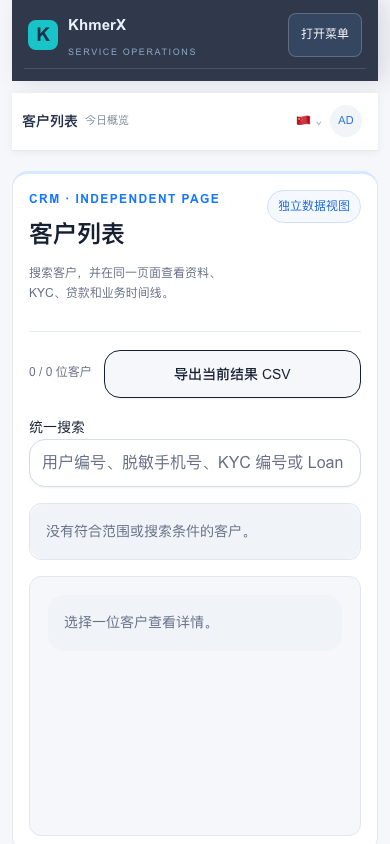
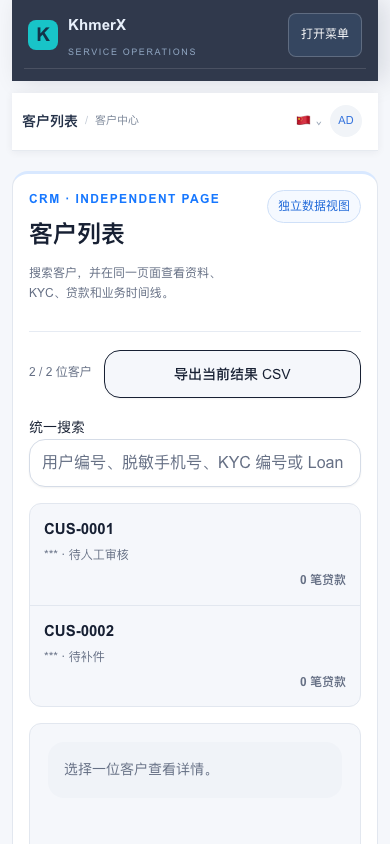
fix(team): remove overview breadcrumb prefix

diff --git a/app/globals.css b/app/globals.css
@@ -211,7 +211,7 @@ fieldset.language-config{margin:16px 0;padding:14px 16px;border:1px solid var(--
 .crm-breadcrumb{max-width:100%}.crm-breadcrumb strong{min-width:0;max-width:clamp(150px,42vw,420px);overflow:hidden;text-overflow:ellipsis;white-space:nowrap}.crm-top-actions{flex:0 0 auto}
 .crm-topbar{position:sticky;top:0;z-index:40;height:58px;min-height:58px;box-sizing:border-box;padding:0 18px;border-bottom:1px solid #e6eaf0;background:#fff;gap:20px;box-shadow:0 1px 8px #17203310}.crm-breadcrumb{display:flex;align-items:center;gap:12px;min-width:0;color:#7c8799;font-size:11px}.crm-breadcrumb strong{color:#243148;font-size:16px;font-weight:700}.crm-breadcrumb i{font-style:normal;color:#c0c8d4}.crm-top-actions{display:flex;align-items:center;gap:8px;margin-left:auto}.crm-top-icon,.crm-top-more{display:grid;place-items:center;width:30px;height:30px;padding:0;border:0;background:transparent;color:#8190a6;font-size:15px;border-radius:7px;cursor:pointer}.crm-top-icon:hover,.crm-top-more:hover{background:#f0f4f9;color:#2f70db}.crm-env-tag{display:inline-flex;align-items:center;min-height:30px;padding:0 11px;border-radius:6px;background:#fff4d9;color:#b17a11;font-size:11px;font-weight:600;white-space:nowrap}.crm-avatar{display:grid;place-items:center;width:32px;height:32px;border:0;border-radius:50%;background:#f1f4f8;color:#3674dd;font-size:11px;cursor:pointer}.crm-language-menu,.crm-account-menu{position:relative}.crm-language-menu summary,.crm-account-menu summary{list-style:none;cursor:pointer}.crm-language-menu summary::-webkit-details-marker,.crm-account-menu summary::-webkit-details-marker{display:none}.crm-language-menu>summary{display:flex;align-items:center;gap:5px;min-height:32px;padding:0 7px;border-radius:7px;color:#65748b;font-size:12px}.crm-language-menu>summary:hover,.crm-account-menu>summary:hover{background:#f0f4f9}.crm-language-menu>summary b,.crm-account-caret{color:#9aa7b8;font-size:11px;font-weight:500}.crm-language-popover,.crm-account-popover{position:absolute;z-index:80;right:0;top:calc(100% + 8px);display:flex;min-width:150px;flex-direction:column;gap:4px;padding:8px;border:1px solid #e0e7f0;border-radius:10px;background:#fff;box-shadow:0 12px 30px #17203324}.crm-language-popover button,.crm-account-popover button{display:flex;align-items:center;gap:8px;min-height:34px;padding:0 9px;border:0;border-radius:7px;background:transparent;color:#243148;text-align:left;font:inherit;font-size:12px;cursor:pointer}.crm-language-popover button:hover,.crm-language-popover button[aria-pressed=true],.crm-account-popover button:hover{background:#eef4ff;color:#2563c7}.crm-account-trigger{display:flex;align-items:center;gap:4px;padding:2px;border-radius:20px}.crm-account-popover{min-width:210px;gap:6px;padding:12px}.crm-account-popover strong,.crm-account-popover span{display:block;padding:0 5px;overflow:hidden;text-overflow:ellipsis;white-space:nowrap}.crm-account-popover strong{font-size:13px;color:#243148}.crm-account-popover span{font-size:11px;color:#7c8799}.crm-account-popover button{margin-top:4px;width:100%;justify-content:flex-start}.crm-account-popover button.danger{color:#c2413b}.company-language-config{max-width:620px}
 @media(min-width:981px){.team-shell:has(.crm-sidebar){padding-left:216px;padding-right:0;max-width:none}.team-shell:has(.crm-sidebar) .crm-topbar{margin-left:0;margin-right:0;padding-left:22px}.team-shell:has(.crm-sidebar)>.kyc-heading,.team-shell:has(.crm-sidebar)>.notice,.team-shell:has(.crm-sidebar)>[role=alert],.team-shell:has(.crm-sidebar)>[role=status],.team-shell:has(.crm-sidebar)>.crm-overview,.team-shell:has(.crm-sidebar)>.panel,.team-shell:has(.crm-sidebar)>details{margin-left:22px;margin-right:22px}}
-@media(max-width:620px){.crm-topbar{padding:0 10px;gap:8px}.crm-breadcrumb{gap:7px}.crm-breadcrumb strong{font-size:14px}.crm-breadcrumb span,.crm-breadcrumb i{display:none}.crm-top-actions{gap:2px}.crm-top-icon:nth-child(2),.crm-top-icon:nth-child(3){display:none}.crm-env-tag{padding:0 7px;font-size:10px}.crm-top-more{display:none}.crm-language-menu>summary>span:nth-child(2),.crm-account-caret{display:none}.crm-language-menu>summary{padding:0 4px}.crm-account-popover{right:-4px}}
+@media(max-width:620px){.crm-topbar{padding:0 10px;gap:8px}.crm-breadcrumb{gap:7px}.crm-breadcrumb strong{font-size:14px}.crm-top-actions{gap:2px}.crm-top-icon:nth-child(2),.crm-top-icon:nth-child(3){display:none}.crm-env-tag{padding:0 7px;font-size:10px}.crm-top-more{display:none}.crm-language-menu>summary>span:nth-child(2),.crm-account-caret{display:none}.crm-language-menu>summary{padding:0 4px}.crm-account-popover{right:-4px}}
 .portal-switch{display:grid;grid-template-columns:1fr 1fr;gap:6px;padding:4px;margin:20px 0;background:var(--muted);border-radius:10px}.portal-switch button{min-height:42px;border:0;border-radius:8px;background:transparent;color:var(--muted-foreground);font:inherit;cursor:pointer}.portal-switch button.active{background:var(--card);color:var(--primary);box-shadow:0 1px 4px #17203312;font-weight:600}.portal-switch button:disabled{cursor:not-allowed;opacity:.65}.sso-login{margin:20px 0;padding:20px;background:var(--accent);border:1px solid #bad6ff;border-radius:12px}.sso-login h2{margin:0 0 6px;font-size:20px}.sso-login p{margin:0 0 14px;color:var(--muted-foreground);font-size:14px}.sso-login button{width:100%;min-height:48px}
 /* The default Today Overview is intentionally read-only; management forms live in their menu pages. */
 .team-shell:has(.crm-overview):not(.crm-subpage-shell)> .panel,.team-shell:has(.crm-overview):not(.crm-subpage-shell)> .team-grid,.team-shell:has(.crm-overview):not(.crm-subpage-shell)> details{display:none}
@@ -242,8 +242,8 @@ fieldset.language-config{margin:16px 0;padding:14px 16px;border:1px solid var(--
 .auth-locale{position:static;z-index:120;display:flex;flex-wrap:nowrap;gap:4px;max-width:calc(100vw - 24px);margin-left:auto;flex-shrink:0}.auth-locale button{min-height:44px;border:1px solid #d8e3f3;border-radius:999px;background:#fff;color:#31517e;padding:6px 8px;font-size:12px;white-space:nowrap;cursor:pointer;box-shadow:0 4px 12px rgba(38,70,115,.08)}.auth-locale button:hover{border-color:#8eb5ec;color:#075bd5}.auth-locale button[aria-pressed=true]{border-color:var(--color-brand-primary);background:#edf3ff;color:var(--color-brand-primary);font-weight:700}
 /* Operator Grid: one scan-friendly row structure shared by customer, loan, bill, and report lists. */
 .operator-grid{display:grid;gap:12px;margin:16px 0}.operator-row{display:grid;grid-template-columns:minmax(0,1fr) auto;gap:12px 18px;align-items:start;padding:16px;border:1px solid var(--border);border-radius:12px;background:var(--card);min-width:0}.operator-row-main{min-width:0}.operator-row-heading{display:flex;align-items:center;gap:10px;min-width:0}.operator-row-heading h3{margin:0;min-width:0;color:var(--foreground);font-size:15px;overflow-wrap:anywhere}.operator-row-secondary,.operator-row-meta{margin:6px 0 0;color:var(--muted-foreground);font-size:12px;overflow-wrap:anywhere}.operator-row-meta{display:flex;flex-wrap:wrap;gap:8px 14px}.operator-row-status{display:inline-flex;align-items:center;min-height:28px;padding:0 9px;border-radius:999px;background:#edf3ff;color:var(--color-brand-primary);font-size:12px;font-weight:650;white-space:nowrap}.operator-row-actions{display:flex;align-items:center;justify-content:flex-end;gap:8px;min-width:0}.operator-row-extra{grid-column:1/-1;border-top:1px solid var(--border);padding-top:12px;min-width:0}.customer-list-row{padding:0;text-decoration:none}.customer-list-row .operator-row{width:100%;border:0;border-radius:0;background:transparent;text-align:left}.customer-list-row .operator-row-meta{justify-content:flex-end;color:var(--muted-foreground);font-weight:650}.customer-list-row:hover .operator-row,.customer-list-row.selected .operator-row{background:transparent}.report-kpis>.operator-row{padding:14px;border:1px solid var(--border);border-radius:11px;background:var(--background)}.report-kpis>.operator-row .operator-row-status{font-size:18px}.report-status-row{border:0;border-bottom:1px solid var(--border);border-radius:0;padding:9px 0;background:transparent}.report-status-row:last-child{border-bottom:0}.report-status-row .operator-row-meta{font-size:11px}.loan-workflow-row .operator-row-actions{max-width:100%}.loan-workflow-row .operator-row-actions .button-row{justify-content:flex-end;flex-wrap:wrap}
-.report-kpis>.operator-row .operator-row-status-plain{display:block;min-height:0;padding:0;background:transparent;color:var(--foreground);font-size:24px;font-weight:700;line-height:1.2}
-.report-kpis>.operator-row .operator-row-heading{display:block}.report-kpis>.operator-row .operator-row-status-plain{margin-top:8px}
+.report-kpis>.report-kpi .operator-row-status-plain{display:block;min-height:0;padding:0;background:transparent;color:var(--color-text-primary);font-size:24px;font-weight:700;line-height:1.2}
+.report-kpis>.report-kpi .operator-row-heading{display:block}.report-kpis>.report-kpi .operator-row-status-plain{margin-top:8px}
 @media(max-width:620px){.operator-row{grid-template-columns:minmax(0,1fr);gap:10px;padding:14px}.operator-row-actions{justify-content:stretch;flex-direction:column;align-items:stretch}.operator-row-actions>*{width:100%;min-height:44px}.operator-row-actions .button-row{display:flex;flex-direction:column;align-items:stretch;gap:8px}.operator-row-actions .button-row>*{width:100%;min-height:44px}.operator-row-heading{align-items:flex-start;flex-wrap:wrap}.operator-row-status{min-height:44px}.report-kpis>.operator-row .operator-row-status-plain{min-height:0}.customer-list-row .operator-row{padding:14px}.report-kpis{gap:10px}.report-kpis>.operator-row{min-height:88px}.operator-grid{gap:10px}.operator-row-extra{width:100%;overflow-wrap:anywhere}}
 .report-center{padding:24px}.report-center-head{padding-bottom:16px;border-bottom:1px solid var(--border);margin-bottom:24px}.report-kpis{gap:16px;margin:24px 0}.report-grid{gap:24px}.report-grid article{padding:16px}.report-center .empty,.report-center .error{margin:24px 0;padding:16px;border:1px solid var(--border);border-radius:12px;background:var(--background)}.report-center .error{color:var(--color-brand-primary)}
 @media(max-width:760px){.report-center{padding:16px}.report-center-head{padding-bottom:16px;margin-bottom:16px}.report-center-head .button-row{display:grid;grid-template-columns:minmax(0,1fr) auto;align-items:center}.report-center-head .button-row>span{grid-column:1/-1}.report-center-head .button-row>button{white-space:nowrap;min-width:max-content}.report-kpis{gap:12px;margin:16px 0}.report-grid{gap:16px}}

diff --git a/app/team/client.tsx b/app/team/client.tsx
@@ -85,8 +85,8 @@ function TeamClientInner({initialQueue=''}:{initialQueue?:string}){
  if(loggingOut)return <main className="team-shell"><section className="panel loading-panel" aria-live="polite">正在退出登录…</section></main>;
  if(companyResolving)return <main className="team-shell"><section className="panel loading-panel" aria-live="polite">正在进入公司工作台…</section></main>;
  if(data?.mfaSetupRequired)return <main className="team-shell" style={{maxWidth:720}}><header className="kyc-header crm-topbar"><div className="crm-breadcrumb"><strong>员工安全设置</strong></div></header><section className="panel"><h1>完成 MFA 设置</h1><p>这是首次接受邀请的安全引导。完成身份验证器设置后，才会开放后台业务数据和操作权限。</p>{!mfaEnrollment?<Button disabled={busy} onClick={()=>void post({action:'mfa_enroll_start'})}>开始设置 MFA</Button>:<div className="sample"><p>请将以下密钥添加到身份验证器：</p><code style={{wordBreak:'break-all'}}>{mfaEnrollment.secret}</code><p className="fine">或使用 URI：{mfaEnrollment.uri}</p><label>输入 6 位验证码<Input inputMode="numeric" value={mfaCode} onChange={e=>setMfaCode(e.target.value.replace(/\D/g,'').slice(0,6))} maxLength={6}/></label><Button disabled={busy||mfaCode.length!==6} onClick={()=>void post({action:'mfa_enroll_confirm',code:mfaCode})}>确认启用并进入后台</Button></div>}{error&&<p className="error" role="alert">{error}</p>}</section></main>;
- if(subview&&data?.company)return <main className="team-shell crm-subpage-shell"><CrmMenu admin={admin} role={member.role} queueView={subviewQueue} setQueueView={setQueueView}/><header className="kyc-header crm-topbar"><div className="crm-breadcrumb"><strong>{sectionTitle}</strong><a href="/team" onClick={e=>{e.preventDefault();window.history.pushState({},'', '/team');window.dispatchEvent(new Event('popstate'))}}>今日概览</a><i>/</i><span>{sectionParent}</span></div><div className="crm-top-actions"><details className="crm-language-menu"><summary aria-label="切换语言"><span>{localeFlags[locale]}</span><span>{localeLabels[locale]}</span><b>⌄</b></summary><div className="crm-language-popover">{(['zh','en','km'] as Locale[]).map(l=><button type="button" key={l} aria-pressed={locale===l} onClick={()=>setLocale(l)}><span>{localeFlags[l]}</span>{localeLabels[l]}</button>)}</div></details><details className="crm-account-menu"><summary className="crm-account-trigger" aria-label="当前账户"><span className="crm-avatar">AD</span><span className="crm-account-caret">⌄</span></summary><div className="crm-account-popover"><strong>{data?.user?.email||'当前账户'}</strong><span>当前公司：{data?.company?companyIdentity(data.company):'未选择公司'}</span><span>岗位：{member?roleLabels[member.role as TeamRole]:'平台管理员'}</span><button type="button" onClick={()=>setNotice('修改密码请联系公司 Admin 重置，重置后旧会话会自动失效')}>修改密码</button><CompanySwitcher data={data} busy={busy} post={post}/><button type="button" className="danger" onClick={()=>void logout()} disabled={busy}>退出登录</button></div></details></div></header>{listControls}<CrmSubpageRouter view={subview} work={work} units={units} members={members} member={member} tenant={data.company.id} busy={busy} post={post}/></main>;
- return <main className="team-shell"><header className="kyc-header crm-topbar"><div className="crm-breadcrumb"><strong>{sectionTitle}</strong>{queueView&&<><a href="/team" onClick={e=>{e.preventDefault();window.history.pushState({},'', '/team');window.dispatchEvent(new Event('popstate'))}}>今日概览</a><i>/</i><span>{sectionParent}</span></>}</div><div className="crm-top-actions"><details className="crm-language-menu"><summary aria-label="切换语言"><span>{localeFlags[locale]}</span><span>{localeLabels[locale]}</span><b>⌄</b></summary><div className="crm-language-popover">{(['zh','en','km'] as Locale[]).map(l=><button type="button" key={l} aria-pressed={locale===l} onClick={()=>setLocale(l)}><span>{localeFlags[l]}</span>{localeLabels[l]}</button>)}</div></details><details className="crm-account-menu"><summary className="crm-account-trigger" aria-label="当前账户"><span className="crm-avatar">AD</span><span className="crm-account-caret">⌄</span></summary><div className="crm-account-popover"><strong>{data?.user?.email||'当前账户'}</strong><span>当前公司：{data?.company?companyIdentity(data.company):'未选择公司'}</span><span>岗位：{member?roleLabels[member.role as TeamRole]:'平台管理员'}</span><button type="button" onClick={()=>setNotice('修改密码请联系公司 Admin 重置，重置后旧会话会自动失效')}>修改密码</button><CompanySwitcher data={data} busy={busy} post={post}/><button type="button" className="danger" onClick={()=>void logout()} disabled={busy}>退出登录</button></div></details></div></header>{error&&<p className="error" role="alert">{error}</p>}{notice&&<p className="success" role="status">{notice}</p>}
+ if(subview&&data?.company)return <main className="team-shell crm-subpage-shell"><CrmMenu admin={admin} role={member.role} queueView={subviewQueue} setQueueView={setQueueView}/><header className="kyc-header crm-topbar"><div className="crm-breadcrumb"><strong>{sectionTitle}</strong><i>/</i><span>{sectionParent}</span></div><div className="crm-top-actions"><details className="crm-language-menu"><summary aria-label="切换语言"><span>{localeFlags[locale]}</span><span>{localeLabels[locale]}</span><b>⌄</b></summary><div className="crm-language-popover">{(['zh','en','km'] as Locale[]).map(l=><button type="button" key={l} aria-pressed={locale===l} onClick={()=>setLocale(l)}><span>{localeFlags[l]}</span>{localeLabels[l]}</button>)}</div></details><details className="crm-account-menu"><summary className="crm-account-trigger" aria-label="当前账户"><span className="crm-avatar">AD</span><span className="crm-account-caret">⌄</span></summary><div className="crm-account-popover"><strong>{data?.user?.email||'当前账户'}</strong><span>当前公司：{data?.company?companyIdentity(data.company):'未选择公司'}</span><span>岗位：{member?roleLabels[member.role as TeamRole]:'平台管理员'}</span><button type="button" onClick={()=>setNotice('修改密码请联系公司 Admin 重置，重置后旧会话会自动失效')}>修改密码</button><CompanySwitcher data={data} busy={busy} post={post}/><button type="button" className="danger" onClick={()=>void logout()} disabled={busy}>退出登录</button></div></details></div></header>{listControls}<CrmSubpageRouter view={subview} work={work} units={units} members={members} member={member} tenant={data.company.id} busy={busy} post={post}/></main>;
+ return <main className="team-shell"><header className="kyc-header crm-topbar"><div className="crm-breadcrumb"><strong>{sectionTitle}</strong>{queueView&&<><i>/</i><span>{sectionParent}</span></>}</div><div className="crm-top-actions"><details className="crm-language-menu"><summary aria-label="切换语言"><span>{localeFlags[locale]}</span><span>{localeLabels[locale]}</span><b>⌄</b></summary><div className="crm-language-popover">{(['zh','en','km'] as Locale[]).map(l=><button type="button" key={l} aria-pressed={locale===l} onClick={()=>setLocale(l)}><span>{localeFlags[l]}</span>{localeLabels[l]}</button>)}</div></details><details className="crm-account-menu"><summary className="crm-account-trigger" aria-label="当前账户"><span className="crm-avatar">AD</span><span className="crm-account-caret">⌄</span></summary><div className="crm-account-popover"><strong>{data?.user?.email||'当前账户'}</strong><span>当前公司：{data?.company?companyIdentity(data.company):'未选择公司'}</span><span>岗位：{member?roleLabels[member.role as TeamRole]:'平台管理员'}</span><button type="button" onClick={()=>setNotice('修改密码请联系公司 Admin 重置，重置后旧会话会自动失效')}>修改密码</button><CompanySwitcher data={data} busy={busy} post={post}/><button type="button" className="danger" onClick={()=>void logout()} disabled={busy}>退出登录</button></div></details></div></header>{error&&<p className="error" role="alert">{error}</p>}{notice&&<p className="success" role="status">{notice}</p>}
  {data?.company&&<><CrmOverview work={work} member={member} admin={admin} /><CrmMenu admin={admin} role={member.role} queueView={queueView} setQueueView={setQueueView} /></>}
  {!data?.company&&<section className="panel"><h2>切换公司</h2><div className="button-row company-picker-actions">{data?.memberships?.map((m:any)=><Button key={m.tenant_id} variant={m.tenant_id===data.company?.id?'default':'outline'} disabled={busy} onClick={()=>void post({action:'enter',slug:m.slug})}>{companyIdentity(m)} · {roleLabels[m.role as TeamRole]}</Button>)}<Button variant="ghost" disabled={busy} onClick={()=>void post({action:'leave'})}>返回公司选择</Button></div></section>}
  {!data?.company&&<div className="team-grid"><section className="panel"><h2>员工登录</h2><p>请由公司 Admin 创建员工并设置权限。若需更换员工身份，请先退出登录，再使用员工邮箱和密码登录。</p></section><section className="panel"><h2>客户公司入口</h2><label>公司入口代码<Input value={slug} onChange={e=>setSlug(e.target.value)}/></label><Button disabled={busy||!slug} onClick={async()=>{if(await post({action:'customer_enter',slug}))window.location.href='/h5'}}>进入公司客户登录</Button></section></div>}

diff --git a/components/report-center.tsx b/components/report-center.tsx
@@ -18,7 +18,7 @@ export function ReportCenter({customers,loans,entries,notifications,pageOnly=fal
   const statusRows=(labels:Record<string,string>,counts:Record<string,number>)=>Object.entries(labels).map(([key,label])=><OperatorRow key={key} className="report-status-row" title={label} status={counts[key]||0} meta={key}/>);
   return <section className="report-center panel" aria-label="数据报表">
     <div className="report-center-head"><div><p className="eyebrow">REPORT CENTER</p><h2>{pageOnly?'本页 · 运营数据摘要':'运营数据摘要'}</h2><p className="fine">仅统计当前员工公司、部门和分单范围内的数据；金额为测试资金口径。</p></div><div className="button-row"><span className="fine">客户 {customerTotal??customers.length} · 贷款 {loanTotal??loans.length}</span><select aria-label="导出报表类型" value={reportType} onChange={e=>setReportType(e.target.value)}><option value="customer_summary">客户摘要</option><option value="kyc_funnel">KYC/审批</option><option value="loan_cashflow">放款/还款</option><option value="collections">逾期催收</option></select><Button variant="outline" disabled={exporting} onClick={()=>void exportReport()}>{exporting?'生成中…':'导出脱敏 CSV'}</Button></div></div>
-    <div className="report-kpis"><OperatorRow title="KYC 待审核/补件" status={(kyc.submitted||0)+(kyc.needs_info||0)} plainStatus/><OperatorRow title="在贷与逾期" status={(loan.active||0)+(loan.overdue||0)} plainStatus/><OperatorRow title="测试放款" status={`$${funded.toFixed(2)}`} plainStatus/><OperatorRow title="测试还款" status={`$${repaid.toFixed(2)}`} plainStatus/></div>
+    <div className="report-kpis"><OperatorRow className="report-kpi" title="KYC 待审核/补件" status={(kyc.submitted||0)+(kyc.needs_info||0)} plainStatus/><OperatorRow className="report-kpi" title="在贷与逾期" status={(loan.active||0)+(loan.overdue||0)} plainStatus/><OperatorRow className="report-kpi" title="测试放款" status={`$${funded.toFixed(2)}`} plainStatus/><OperatorRow className="report-kpi" title="测试还款" status={`$${repaid.toFixed(2)}`} plainStatus/></div>
     <div className="report-grid"><article><h3>KYC 状态</h3>{statusRows(kycLabels,kyc)}</article><article><h3>贷款状态</h3>{statusRows(loanLabels,loan)}</article><article><h3>通知发送</h3><OperatorRow title="成功发送" status={delivered}/><OperatorRow title="失败/死信" status={failed} className={failed?'report-alert':''}/><OperatorRow title="总记录" status={notifications.length}/></article></div>
     {exportNotice&&<p className={exportNotice.startsWith('已')?'success':'error'} role="status">{exportNotice}</p>}<p className="fine report-note">导出仅包含当前员工可见范围，并对客户标识做脱敏；每次导出都会写入审计记录。</p>
   </section>;

diff --git a/docs/review/team-shell-title-20261102.md b/docs/review/team-shell-title-20261102.md
@@ -2,7 +2,7 @@
 
 ## Scope
 
-- Capture commit: `8bd1c98` (implementation commit on `fix/team/shell-title`; based on `origin/main` `d612010`).
+- Capture commit: pending final commit on `fix/team/shell-title` (implementation base `origin/main` `d612010`).
 - Browser: Playwright Chromium headless.
 - Viewports: 390×844 and 1280×844; first screen, menu collapsed at mobile width.
 - API responses were synthetic and contained no secrets.
@@ -11,9 +11,9 @@
 
 | Route | Top title | Parent menu | `document.title` | Horizontal overflow |
 | --- | --- | --- | --- | --- |
-| `/team/kyc` | KYC 审核队列 | 客户中心 | `KYC 审核队列 · KhmerX 后台` | false |
-| `/team/customers?view=客户列表` | 客户列表 | 客户中心 | `客户列表 · KhmerX 后台` | false |
-| `/team/reports?view=客户漏斗` | 客户漏斗 | 报表中心 | `客户漏斗 · KhmerX 后台` | false |
+| `/team/kyc` | KYC 审核队列 | `KYC 审核队列 / 客户中心` | `KYC 审核队列 · KhmerX 后台` | false |
+| `/team/customers?view=客户列表` | 客户列表 | `客户列表 / 客户中心` | `客户列表 · KhmerX 后台` | false |
+| `/team/reports?view=客户漏斗` | 客户漏斗 | `客户漏斗 / 报表中心` | `客户漏斗 · KhmerX 后台` | false |
 
 The six screenshots below were opened and visually checked. On mobile, the title remains on one line and the language/account controls remain visible; on desktop, the sidebar and parent breadcrumb remain aligned.
 
@@ -21,10 +21,10 @@ The six screenshots below were opened and visually checked. On mobile, the title
 
 ```text
 1a18fe8ee9e51b5d1090605e6c358326113e7496152bdfb1af94217588895b5f  customers-1280.png
-22d8eead22edc61702e6b3f92216d121f8cf1b9d6ca80d5c28e42bddcab46695  customers-390.png
+f8e9d741603db878541c736ee8c438b84fcdd4c5eef07f7c6465b23d04c3cc8d  customers-390.png
 60ed1595f7287f223338f1d692f8bdb9384f6e7f94e8e1c27b814c9235582f1d  kyc-1280.png
-e4f6d5de5a276ac478d002e097ac1146e700b50b4eab4b07b732810c43d9eba2  kyc-390.png
-8104a9d395109580c1b35aa7f92a68deb36da29b3c6e1a83c6ebfe9e2628c54a  reports-1280.png
+70fce835b66718c8e2239113f34efe8e8716354562651dfb7fbca739607daa3b  kyc-390.png
+dfa3ff79e9aba7544e681233ef6eee185f71bff01f6d05e6e67474e4e3d5e90a  reports-1280.png
 93bef42d20f5194cbd50d856df126591d74bc7f0282d496b1d4020942b8d780b  reports-390.png
 ```
 
